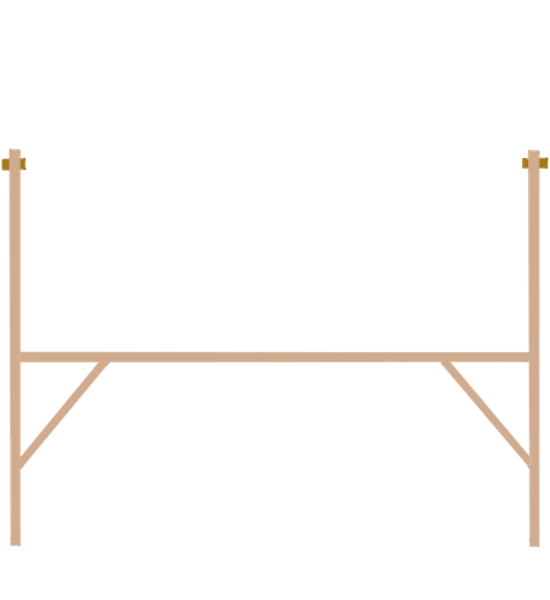
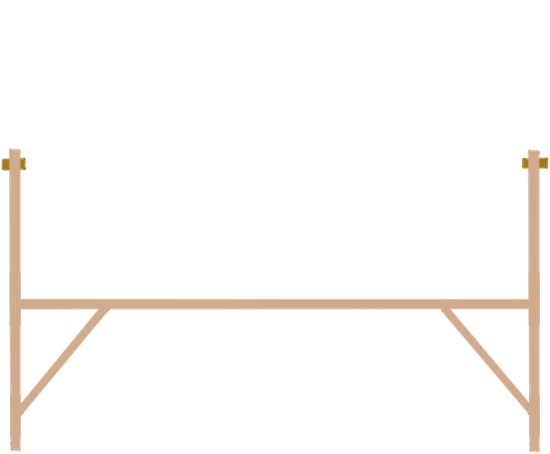
Scrollbar, Responsive Design, and Cleanup
Added a customized scrollbar for overflow, added responsive design, and cleaned up my code a bit while changing a little bit of the styling.

Changed region(s): [[0.0, 0.5859, 0.9891, 1.0], [0.0, 0.2467, 0.0618, 0.4009], [0.9273, 0.2467, 1.0, 0.37]]

diff --git a/styles.css b/styles.css
@@ -1,9 +1,22 @@
+:root {
+  --primary-color: #378442;
+  --primary-color-light: greenyellow;
+  --primary-color-dark: darkgreen;
+  --secondary-color: #d0ab8d;
+  --white: #fff;
+}
+
+body {
+  margin: 0;
+}
+
 .container {
   display: flex;
   flex-direction: column;
+  justify-content: center;
+  min-height: 100vh;
 }
 
-.btn,
 .text,
 .table-header,
 .table-item {
@@ -20,6 +33,7 @@
   text-align: center;
 }
 
+/* Chalkboard */
 .images {
   left: 0;
   margin: 0 auto;
@@ -30,13 +44,13 @@
 
 .chalkboard {
   position: absolute;
-  top: 0;
   left: 25px;
+  top: 0;
 }
 
 .stand {
   position: relative;
-  top: 0;
+  bottom: 47px;
   left: 0;
 }
 
@@ -52,60 +66,159 @@
   position: relative;
 }
 
+/* Textarea */
 .text {
-  background-color: #378442;
-  color: white;
+  background-color: var(--primary-color);
+  color: var(--white);
   font-size: 1.2rem;
-  width: 447px;
-  height: 300px;
+  height: 192px;
+  outline: none;
   overflow: auto;
   padding: 1rem;
   position: absolute;
   resize: none;
-  top: 8px;
+  top: 11px;
+  width: 445px;
 }
 
 .text::placeholder {
-  color: white;
+  color: var(--white);
 }
 
+/* Button */
 .btn {
   border-radius: 20px;
+  box-shadow: 4px 4px 0 0 black;
   cursor: pointer;
   font-size: 1.2rem;
   height: 50px;
   margin: 0 auto 1rem auto;
   position: absolute;
-  top: 400px;
+  top: 300px;
   width: 200px;
 }
 
+.btn:hover,
 .btn:focus {
-  background-color: black;
-  color: white;
+  font-weight: bold;
 }
 
+.btn:active {
+  box-shadow: 2px 2px 0 0 black;
+  transform: translate(2px, 2px);
+}
+
+/* Table */
 .table {
-  color: white;
+  color: var(--white);
   display: flex;
-  height: 300px;
+  height: 194px;
   justify-content: center;
   overflow: auto;
   padding: 1rem;
   position: absolute;
-  top: 8px;
-  width: 447px;
+  top: 11px;
+  width: 450px;
 }
 
 .table-header {
-  border: double 5px white;
+  border: double 5px var(--white);
   font-size: 1.4rem;
   padding: 0.3rem 1rem;
 }
 
 .table-item {
-  border: solid 1px white;
+  border: solid 1px var(--white);
   font-size: 1.2rem;
   padding: 0.3rem 1rem;
   text-align: center;
+}
+
+/* Scrollbar */
+::-webkit-scrollbar {
+  width: 10px;
+}
+
+::-webkit-scrollbar-track {
+  background: var(--primary-color);
+}
+
+::-webkit-scrollbar-thumb {
+  background: var(--white);
+  border: 1px solid var(--primary-color-dark);
+  border-radius: 10px;
+}
+
+::-webkit-scrollbar-thumb:hover {
+  border-color: var(--primary-color-light);
+}
+
+@media screen and (max-width: 560px) {
+  .container {
+    background-color: var(--primary-color);
+    min-height: 100vh;
+  }
+
+  .title {
+    border-bottom: solid 3px var(--white);
+    color: var(--white);
+    padding-bottom: 2rem;
+  }
+
+  .content {
+    display: flex;
+    flex-direction: column;
+  }
+
+  .images {
+    display: none;
+  }
+
+  .btn {
+    background-color: #378442;
+    border: none;
+    box-shadow: none;
+    color: var(--white);
+    font-family: "Gloria Hallelujah", cursive;
+    font-size: 2rem;
+    margin: 1.5rem auto 2rem auto;
+    outline: none;
+    position: static;
+  }
+
+  .btn:hover,
+  .btn:focus {
+    font-weight: normal;
+    text-decoration: underline;
+  }
+
+  .btn:active {
+    box-shadow: none;
+    font-weight: bold;
+    transform: none;
+  }
+
+  .table {
+    height: auto;
+    overflow: visible;
+    position: static;
+    width: 80%;
+  }
+
+  .text {
+    border: none;
+    height: 50vh;
+    position: static;
+    width: 80%;
+  }
+}
+
+@media screen and (max-width: 320px) {
+  .title {
+    font-size: 2rem;
+  }
+
+  .table-header {
+    font-size: 1rem;
+  }
 }

diff --git a/script.js b/script.js
@@ -4,7 +4,7 @@ function stringToArray(string) {
   let array = string
     .trim() // Trim whitespace form either end
     .replace(/[^A-Za-z\s]/g, "") // Remove punctuation and numbers
-    .replace(/\s/g, "") // Remove spaces inbetween words
+    .replace(/\s/g, "") // Remove spaces between words
     .toLowerCase() // Convert all letters to lowercase
     .split(""); // Put each character in a different array position
 
@@ -40,9 +40,9 @@ function analyze(string) {
 
 // Function that creates a list
 function table(array) {
-  let tableRows = [];
   let tableHeaders =
     "<tr><th class='table-header'>Letter</th><th class='table-header'># Of Occurrences</th></tr>";
+  let tableRows = [];
 
   for (let i = 0; i < array.length; i++) {
     tableRows[i] =
@@ -94,6 +94,7 @@ $(".btn").click(() => {
     let textValue = $(".text").val();
     analysis = analyze(textValue);
   }
+
   contentChange(analysis);
   btnChange();
 });

diff --git a/index.html b/index.html
@@ -27,12 +27,12 @@
           <div class="images">
             <img
               class="chalkboard"
-              src="./img/chalkboard.PNG"
+              src="./img/chalkboard1.PNG"
               alt="Chalkboard"
             />
             <img
               class="stand"
-              src="./img/chalkboard_stand.PNG"
+              src="./img/chalkboard_stand1.PNG"
               alt="Chalkboard stand"
             />
           </div>
